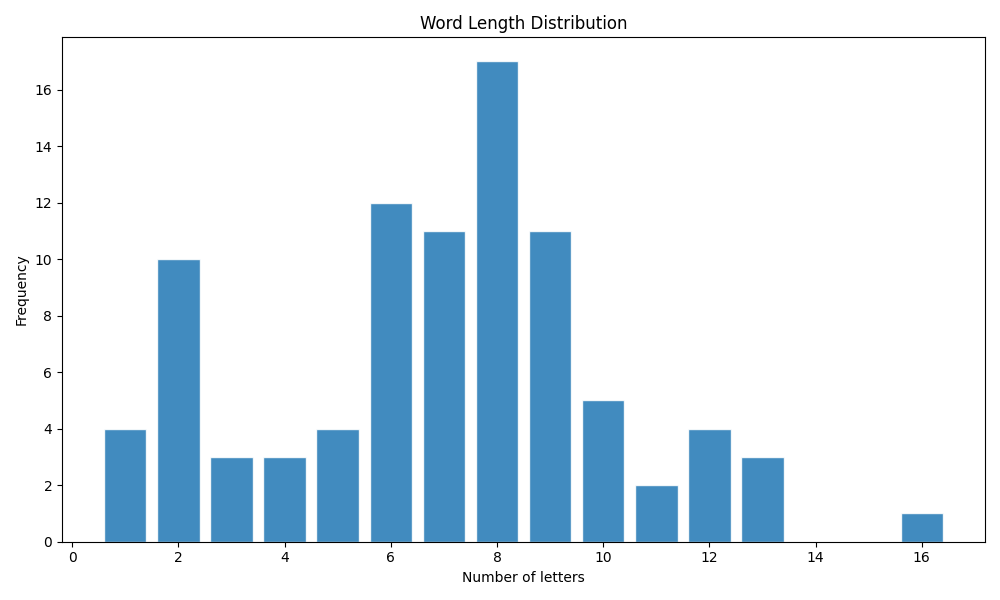
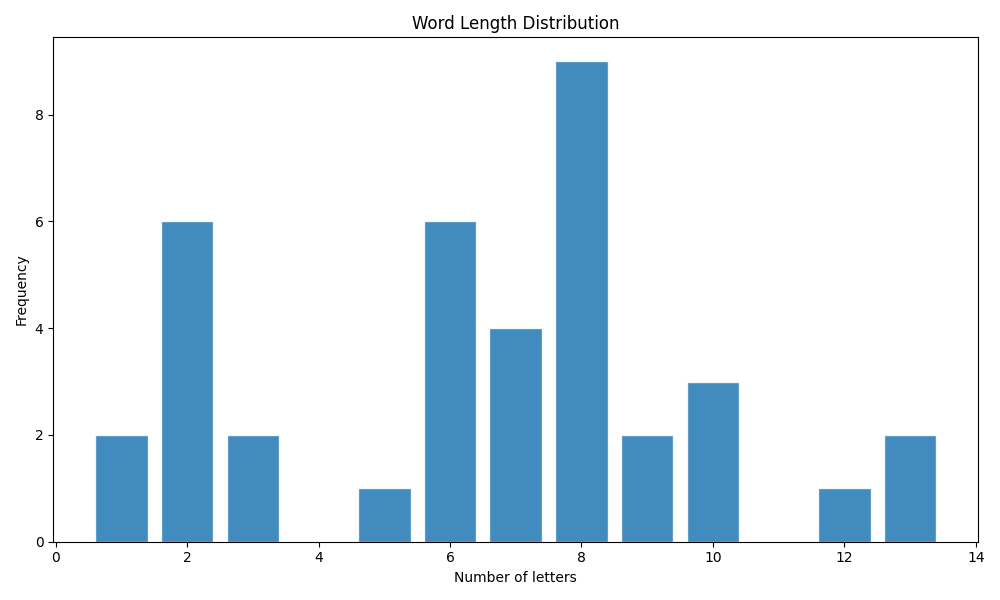
fixes

diff --git a/lab-7.py b/lab-7.py
@@ -23,6 +23,7 @@ MIC_DURATION  = 30
 
 nlp = spacy.load("uk_core_news_lg")
 
+SEP= "=" * 67
 SOURCE_TEXT = """
 Штучний інтелект та машинне навчання сьогодні є одними з найважливіших напрямів 
 розвитку сучасних технологій. Ці галузі охоплюють широкий спектр методів, 
@@ -62,6 +63,7 @@ def main():
     else:
         audio_path = generate_audio(SOURCE_TEXT, "l7_source_audio.wav")
 
+    print(f"\n{SEP}")
     rate, signal = load_audio(audio_path)
     print(f"Rate: {rate} Hz, duration={len(signal)/rate:.1f}")
 
@@ -73,11 +75,17 @@ def main():
     wavfile.write(filt_path, rate, filt_int16)
     print(f"Filted audio: {filt_path}")
 
+    print(f"\n{SEP}")
     features = extract_audio_features(filtered["normalized"], rate)
-    print(f"Duration: {features['duration_sec']}с")
+    print(f"Duration: {features['duration_sec']}s")
+    print(f"rms: {features['rms']}")
+    print(f"zcr: {features['zcr']}")
     print(f"Спект. центроїд: {features['spectral_centroid']:.1f} Гц")
+    print(f"spectral_bandwidth: {features['spectral_bandwidth']:.1f} Гц")
+    print(f"spectral_flatness: {features['spectral_flatness']:.1f} Гц")
     print(f"MFCC (перші 5): {features['mfcc'][:5]}")
 
+    print(f"\n{SEP}")
     recognized_text = speech_to_text(audio_path)
 
     txt_raw = os.path.join(OUTPUT_DIR, "l7_recognized_text_raw.txt")
@@ -93,6 +101,7 @@ def main():
     print(f"Top-10: {[w for w,_ in nlp['top10_words']]}")
 
 
+    print(f"\n{SEP}")
     annotation = auto_annotate(nlp)
     print(f"Annotation: «{annotation[:120]}…»")
 
@@ -400,7 +409,7 @@ def plot_audio_analysis(filtered: dict, rate: int, fname: str):
     plt.show()
 
 
-def plot_top_words(nlp: dict, fname: str = None):
+def plot_top_words(nlp: dict, fname):
     fig, ax = plt.subplots(figsize=(10, 8))
     
     words15 = [w for w, _ in nlp["freq_content"].most_common(15)]
@@ -418,7 +427,7 @@ def plot_top_words(nlp: dict, fname: str = None):
     plt.show()
 
 
-def plot_word_length_distribution(nlp: dict, fname: str = None):
+def plot_word_length_distribution(nlp: dict, fname):
     fig, ax = plt.subplots(figsize=(10, 6))
     
     lengths = nlp["lengths"]
@@ -436,7 +445,7 @@ def plot_word_length_distribution(nlp: dict, fname: str = None):
     plt.show()
 
 
-def plot_pos_distribution(nlp: dict, fname: str = None):
+def plot_pos_distribution(nlp: dict, fname):
     fig, ax = plt.subplots(figsize=(8, 8))
     
     pos_d = nlp["pos_dist"]
@@ -455,7 +464,7 @@ def plot_pos_distribution(nlp: dict, fname: str = None):
     plt.show()
 
 
-def plot_top_bigrams(nlp: dict, fname: str = None):
+def plot_top_bigrams(nlp: dict, fname):
     fig, ax = plt.subplots(figsize=(10, 6))
     
     bg_labels = [" ".join([token.text for token in bg]) for bg, _ in nlp["top10_bigrams"][:10]]